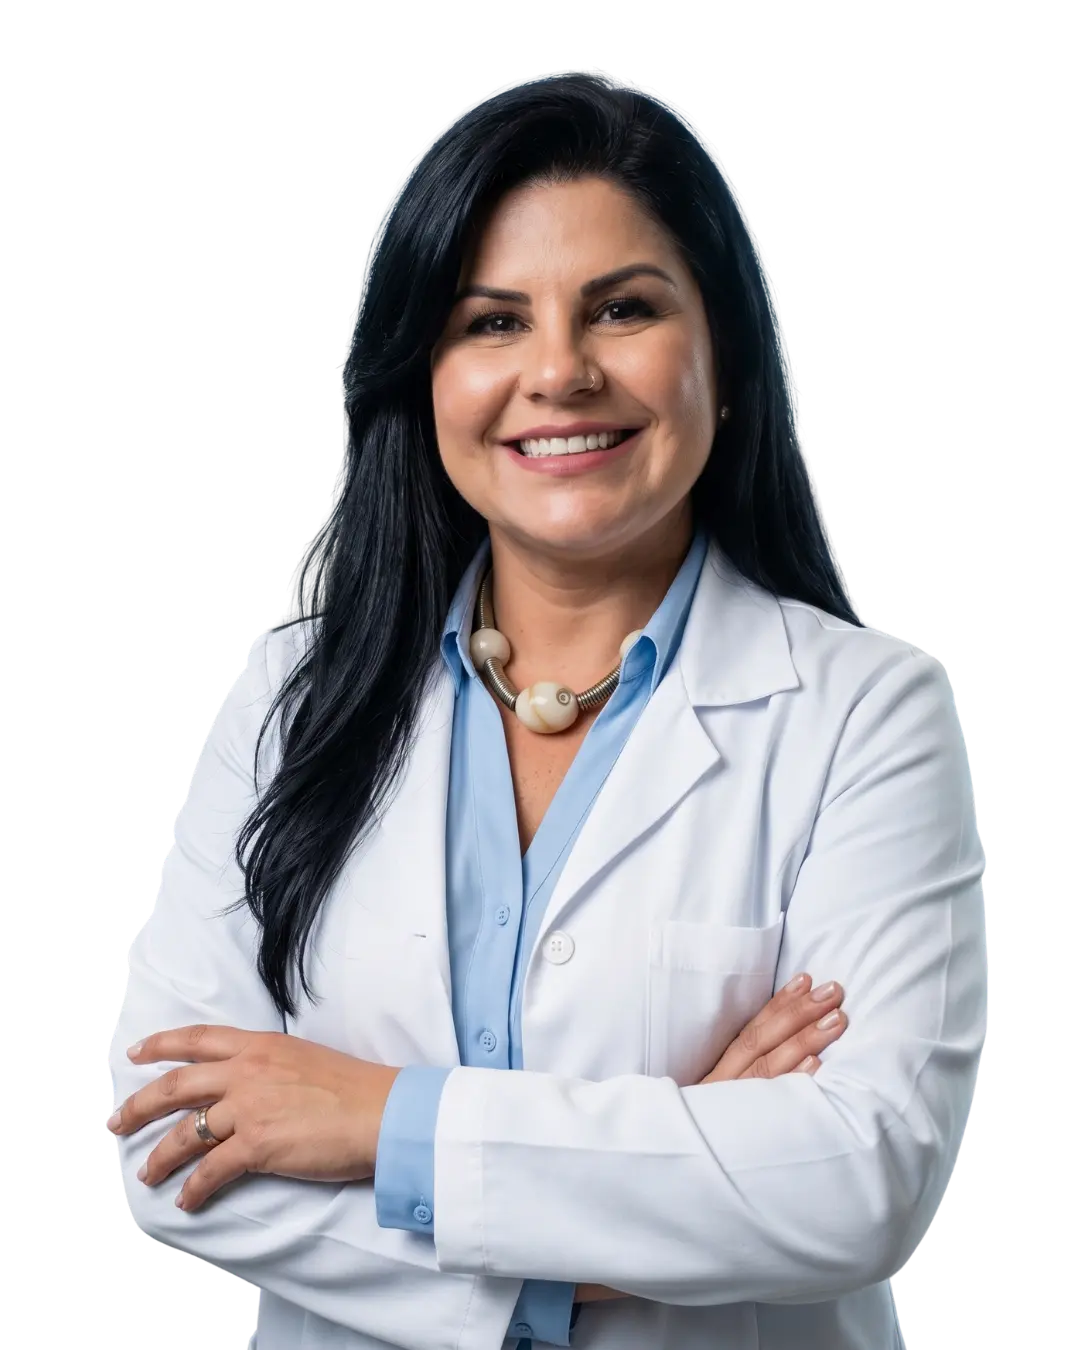
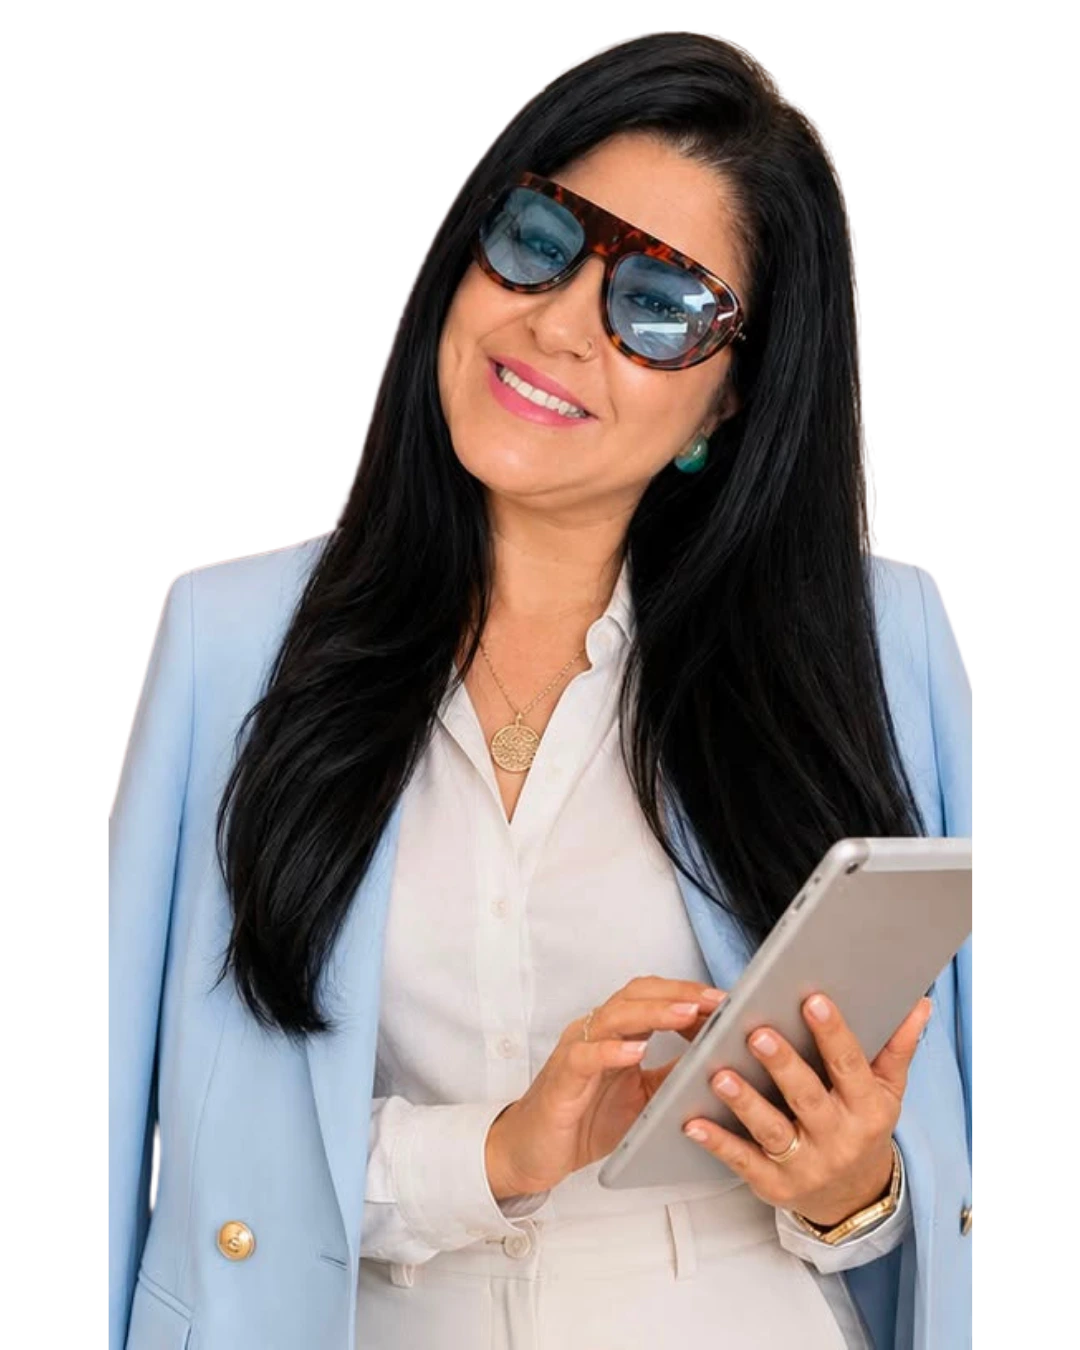
feat: novas fotos de antes/depois, conteudo sobre diastase e botoes de ver mais

diff --git a/index.html b/index.html
@@ -236,12 +236,12 @@
             <button class="service-card__btn" aria-haspopup="dialog">Saiba mais <svg xmlns="http://www.w3.org/2000/svg" viewBox="0 0 24 24" fill="none" stroke="currentColor" stroke-width="2" stroke-linecap="round" stroke-linejoin="round"><path d="M5 12h14M12 5l7 7-7 7"/></svg></button>
           </article>
 
-          <article class="service-card" data-category="rehab" data-full-desc="Atendimento terapêutico especializado com drenagens seguras e tratamentos adaptados individualmente para a gestante e no puerpério imediato/tardio.">
+          <article class="service-card" data-category="rehab" data-full-desc="Atendimento terapêutico especializado com drenagens seguras, fechamento de diástase abdominal e tratamentos adaptados individualmente para a gestante e no puerpério imediato/tardio. A diástase — separação do músculo reto abdominal — é uma condição comum após a gravidez que deixa o abdômen proeminente mesmo sem excesso de gordura. Nosso protocolo de fortalecimento do core e taping é referência em resultados para devolver a firmeza e a funcionalidade da parede abdominal.">
             <div class="service-card__icon">
               <svg xmlns="http://www.w3.org/2000/svg" viewBox="0 0 24 24" fill="none" stroke="currentColor" stroke-width="1.5"><circle cx="12" cy="12" r="10"/><path d="M8 12h8"/></svg>
             </div>
             <h3 class="service-card__title">Pré e Pós-Parto</h3>
-            <p class="service-card__desc">Acompanhamento e drenagens linfáticas seguras e suaves para gestantes e no puerpério.</p>
+            <p class="service-card__desc">Drenagem, fechamento de diástase e reabilitação completa para gestantes e no puerpério.</p>
             <button class="service-card__btn" aria-haspopup="dialog">Saiba mais <svg xmlns="http://www.w3.org/2000/svg" viewBox="0 0 24 24" fill="none" stroke="currentColor" stroke-width="2" stroke-linecap="round" stroke-linejoin="round"><path d="M5 12h14M12 5l7 7-7 7"/></svg></button>
           </article>
 
@@ -382,12 +382,12 @@
             <button class="service-card__btn" aria-haspopup="dialog">Saiba mais <svg xmlns="http://www.w3.org/2000/svg" viewBox="0 0 24 24" fill="none" stroke="currentColor" stroke-width="2" stroke-linecap="round" stroke-linejoin="round"><path d="M5 12h14M12 5l7 7-7 7"/></svg></button>
           </article>
 
-          <article class="service-card" data-category="tech" data-full-desc="Estimulação eletro-neuromuscular via Corrente Russa ou TENS. Atua forçando a hipertrofia e a tonificação de fibras musculares fadigadas ou em reabilitação (Core e Glúteos).">
+          <article class="service-card" data-category="tech" data-full-desc="Estimulação eletro-neuromuscular via Corrente Russa ou TENS. Atua forçando a hipertrofia e a tonificação de fibras musculares fadigadas ou em reabilitação (Core e Glúteos). Essencial no tratamento de diástase abdominal: o fortalecimento progressivo do reto abdominal promove o fechamento da separação muscular, devolvendo a firmeza e a funcionalidade do abdômen.">
             <div class="service-card__icon">
               <svg xmlns="http://www.w3.org/2000/svg" viewBox="0 0 24 24" fill="none" stroke="currentColor" stroke-width="1.5"><path d="M13 2L3 14h9l-1 8 10-12h-9l1-8z"/></svg>
             </div>
             <h3 class="service-card__title">Fortalecimento Muscular</h3>
-            <p class="service-card__desc">Eletroestimulação por Corrente Russa/TENS para ganho de tônus e fortalecimento do core.</p>
+            <p class="service-card__desc">Eletroestimulação para ganho de tônus, fortalecimento do core e fechamento de diástase.</p>
             <button class="service-card__btn" aria-haspopup="dialog">Saiba mais <svg xmlns="http://www.w3.org/2000/svg" viewBox="0 0 24 24" fill="none" stroke="currentColor" stroke-width="2" stroke-linecap="round" stroke-linejoin="round"><path d="M5 12h14M12 5l7 7-7 7"/></svg></button>
           </article>
 
@@ -447,6 +447,18 @@
           </article>
 
         </div>
+
+        <!-- Botão expandir/colapsar serviços (visível apenas no mobile) -->
+        <button class="services__toggle"
+                data-expand-target="#services-grid"
+                data-expand-collapsed-class="services__grid--collapsed"
+                data-expand-label-more="Ver todos os serviços"
+                data-expand-label-less="Ver menos"
+                aria-expanded="false">
+          <span class="expand-btn__text">Ver todos os serviços</span>
+          <svg class="expand-btn__icon" xmlns="http://www.w3.org/2000/svg" viewBox="0 0 24 24" fill="none" stroke="currentColor" stroke-width="2" stroke-linecap="round" stroke-linejoin="round" aria-hidden="true"><polyline points="6 9 12 15 18 9"/></svg>
+        </button>
+
       </div>
     </section>
 
@@ -497,7 +509,49 @@
             <!-- Controle deslizante acessível -->
             <input type="range" class="before-after__slider" min="0" max="100" value="50" aria-label="Mova para comparar o antes e depois da reabilitação pós-parto">
           </div>
+
+          <!-- Item Comparador 3 (Pós-Operatório) -->
+          <div class="before-after" aria-label="Comparativo antes e depois de pós-operatório">
+            <img class="before-after__image before-after__image--after" src="assets/images/depois_tres.webp" alt="Resultado de recuperação pós-operatória com contorno corporal definido" loading="lazy">
+            <img class="before-after__image before-after__image--before" src="assets/images/antes_tres.webp" alt="Corpo antes da reabilitação pós-operatória" loading="lazy">
+            <span class="before-after__label before-after__label--before">Antes</span>
+            <span class="before-after__label before-after__label--after">Depois</span>
+            <div class="before-after__handle"></div>
+            <input type="range" class="before-after__slider" min="0" max="100" value="50" aria-label="Mova para comparar o antes e depois do pós-operatório">
+          </div>
+
+          <!-- Item Comparador 4 (Emagrecimento / Protocolo) -->
+          <div class="before-after" aria-label="Comparativo antes e depois do Protocolo de Emagrecimento">
+            <img class="before-after__image before-after__image--after" src="assets/images/depois_quatro.webp" alt="Resultado do Protocolo Sandra Domingues com redução de medidas e contorno definido" loading="lazy">
+            <img class="before-after__image before-after__image--before" src="assets/images/antes_quatro.webp" alt="Silhueta antes do tratamento de emagrecimento" loading="lazy">
+            <span class="before-after__label before-after__label--before">Antes</span>
+            <span class="before-after__label before-after__label--after">Depois</span>
+            <div class="before-after__handle"></div>
+            <input type="range" class="before-after__slider" min="0" max="100" value="50" aria-label="Mova para comparar o antes e depois do protocolo de emagrecimento">
+          </div>
+
+          <!-- Item Comparador 5 (Diástase / Pré e Pós-Parto) -->
+          <div class="before-after" aria-label="Comparativo antes e depois do fechamento de diástase">
+            <img class="before-after__image before-after__image--after" src="assets/images/depois_cinco.webp" alt="Abdômen firme após fechamento de diástase e fortalecimento do core" loading="lazy">
+            <img class="before-after__image before-after__image--before" src="assets/images/antes_cinco.webp" alt="Abdômen com diástase abdominal visível antes do tratamento" loading="lazy">
+            <span class="before-after__label before-after__label--before">Antes</span>
+            <span class="before-after__label before-after__label--after">Depois</span>
+            <div class="before-after__handle"></div>
+            <input type="range" class="before-after__slider" min="0" max="100" value="50" aria-label="Mova para comparar o antes e depois do fechamento de diástase">
+          </div>
+
         </div>
+
+        <!-- Botão expandir/colapsar galeria (visível apenas no mobile) -->
+        <button class="results__gallery-toggle"
+                data-expand-target=".results__gallery"
+                data-expand-collapsed-class="results__gallery--collapsed"
+                data-expand-label-more="Ver mais resultados"
+                data-expand-label-less="Ver menos"
+                aria-expanded="false">
+          <span class="expand-btn__text">Ver mais resultados</span>
+          <svg class="expand-btn__icon" xmlns="http://www.w3.org/2000/svg" viewBox="0 0 24 24" fill="none" stroke="currentColor" stroke-width="2" stroke-linecap="round" stroke-linejoin="round" aria-hidden="true"><polyline points="6 9 12 15 18 9"/></svg>
+        </button>
 
         <!-- Carrossel de Depoimentos -->
         <div class="testimonials" aria-label="Depoimentos de clientes">
@@ -561,7 +615,32 @@
           <p class="protocolo__text">
             O Protocolo Sandra Domingues é o nosso método autoral de maior sucesso para emagrecimento saudável e redução de medidas. O programa é desenhado a partir da avaliação biomédica das suas curvas e queixa corporal.
           </p>
-          
+
+          <!-- Destaque Numérico de Resultados -->
+          <div class="protocolo__highlights" aria-label="Resultados comprovados do Protocolo Sandra Domingues">
+            <div class="protocolo__highlight-item">
+              <span class="protocolo__highlight-value">–10 kg</span>
+              <span class="protocolo__highlight-label">Perda de peso</span>
+            </div>
+            <div class="protocolo__highlight-item">
+              <span class="protocolo__highlight-value">–25 cm</span>
+              <span class="protocolo__highlight-label">Redução abdominal</span>
+            </div>
+            <div class="protocolo__highlight-item">
+              <span class="protocolo__highlight-value">45 dias</span>
+              <span class="protocolo__highlight-label">Para resultados visíveis</span>
+            </div>
+          </div>
+
+          <!-- Informativo sobre Diástase -->
+          <div class="protocolo__info-box">
+            <svg class="protocolo__info-box-icon" xmlns="http://www.w3.org/2000/svg" viewBox="0 0 24 24" fill="none" stroke="currentColor" stroke-width="2" stroke-linecap="round" stroke-linejoin="round" aria-hidden="true"><circle cx="12" cy="12" r="10"/><path d="M12 16v-4M12 8h.01"/></svg>
+            <div class="protocolo__info-box-content">
+              <h3>Você sabia? Barriga avantajada nem sempre é gordura.</h3>
+              <p>Muitas mulheres apresentam o abdômen proeminente por conta da diástase abdominal — a separação do músculo reto abdominal, comum após gestações. O fechamento da diástase é um dos pilares do nosso trabalho, devolvendo firmeza, funcionalidade e autoestima sem cirurgia.</p>
+            </div>
+          </div>
+
           <div class="protocolo__benefits">
             <div class="protocolo__benefit-item">
               <svg class="protocolo__benefit-icon" xmlns="http://www.w3.org/2000/svg" viewBox="0 0 24 24" fill="none" stroke="currentColor" stroke-width="2" stroke-linecap="round" stroke-linejoin="round"><polyline points="20 6 9 17 4 12"/></svg>

diff --git a/css/sections/protocolo.css b/css/sections/protocolo.css
@@ -47,6 +47,74 @@
   margin-bottom: var(--space-xl);
 }
 
+/* Bloco de destaque numérico (10kg, 25cm, 45 dias) */
+.protocolo__highlights {
+  display: grid;
+  grid-template-columns: repeat(3, 1fr);
+  gap: var(--space-lg);
+  padding: var(--space-xl);
+  border: 1px solid oklch(73.55% 0.134 83.18 / 0.25);
+  border-radius: var(--radius-md);
+  background-color: oklch(73.55% 0.134 83.18 / 0.04);
+  margin-bottom: var(--space-xl);
+  text-align: center;
+}
+
+.protocolo__highlight-item {
+  display: flex;
+  flex-direction: column;
+  align-items: center;
+  gap: var(--space-xs);
+}
+
+.protocolo__highlight-value {
+  font-family: var(--font-display);
+  font-size: clamp(1.8rem, 4vw, 2.5rem);
+  font-weight: var(--weight-semibold);
+  color: var(--color-gold-primary);
+  line-height: 1.1;
+}
+
+.protocolo__highlight-label {
+  font-size: var(--size-small);
+  color: var(--color-text-muted);
+  line-height: 1.3;
+}
+
+/* Bloco educativo sobre diástase */
+.protocolo__info-box {
+  display: flex;
+  align-items: flex-start;
+  gap: var(--space-md);
+  padding: var(--space-lg);
+  border-left: 3px solid var(--color-gold-primary);
+  background-color: oklch(73.55% 0.134 83.18 / 0.04);
+  border-radius: 0 var(--radius-sm) var(--radius-sm) 0;
+  margin-bottom: var(--space-xl);
+}
+
+.protocolo__info-box-icon {
+  color: var(--color-gold-primary);
+  flex-shrink: 0;
+  width: 22px;
+  height: 22px;
+  margin-top: 2px;
+}
+
+.protocolo__info-box-content h3 {
+  font-family: var(--font-body);
+  font-size: 1rem;
+  font-weight: var(--weight-semibold);
+  color: var(--color-text-main);
+  margin-bottom: var(--space-xs);
+}
+
+.protocolo__info-box-content p {
+  font-size: var(--size-small);
+  color: var(--color-text-muted);
+  line-height: var(--lh-body);
+}
+
 .protocolo__benefits {
   display: flex;
   flex-direction: column;

diff --git a/js/modules/expandable.js b/js/modules/expandable.js
@@ -1,0 +1,66 @@
+/* js/modules/expandable.js */
+
+export function initExpandable() {
+  const toggleButtons = document.querySelectorAll('[data-expand-target]');
+
+  toggleButtons.forEach(button => {
+    const targetSelector = button.getAttribute('data-expand-target');
+    const target = document.querySelector(targetSelector);
+
+    if (!target) return;
+
+    const collapsedClass = button.getAttribute('data-expand-collapsed-class');
+    const labelMore = button.getAttribute('data-expand-label-more') || 'Ver mais';
+    const labelLess = button.getAttribute('data-expand-label-less') || 'Ver menos';
+    const textSpan = button.querySelector('.expand-btn__text');
+    const iconSvg = button.querySelector('.expand-btn__icon');
+
+    // Inicia colapsado no mobile
+    target.classList.add(collapsedClass);
+    button.setAttribute('aria-expanded', 'false');
+
+    button.addEventListener('click', () => {
+      const isCollapsed = target.classList.contains(collapsedClass);
+
+      if (isCollapsed) {
+        target.classList.remove(collapsedClass);
+        button.setAttribute('aria-expanded', 'true');
+        if (textSpan) textSpan.textContent = labelLess;
+        if (iconSvg) iconSvg.style.transform = 'rotate(180deg)';
+      } else {
+        target.classList.add(collapsedClass);
+        button.setAttribute('aria-expanded', 'false');
+        if (textSpan) textSpan.textContent = labelMore;
+        if (iconSvg) iconSvg.style.transform = 'rotate(0deg)';
+
+        // Scroll suave de volta ao topo da seção ao colapsar
+        const section = target.closest('section');
+        if (section) {
+          section.scrollIntoView({ behavior: 'smooth', block: 'start' });
+        }
+      }
+    });
+
+    // Oculta o botão em desktop via media query listener
+    const mediaQuery = window.matchMedia('(min-width: 769px)');
+
+    const handleScreenChange = (e) => {
+      if (e.matches) {
+        // Desktop: remove collapse e esconde botão
+        target.classList.remove(collapsedClass);
+        button.style.display = 'none';
+      } else {
+        // Mobile: reaplica collapse e mostra botão
+        target.classList.add(collapsedClass);
+        button.setAttribute('aria-expanded', 'false');
+        if (textSpan) textSpan.textContent = labelMore;
+        if (iconSvg) iconSvg.style.transform = 'rotate(0deg)';
+        button.style.display = '';
+      }
+    };
+
+    // Checa no carregamento
+    handleScreenChange(mediaQuery);
+    mediaQuery.addEventListener('change', handleScreenChange);
+  });
+}

diff --git a/css/sections/results.css b/css/sections/results.css
@@ -278,4 +278,43 @@
     grid-template-columns: 1fr;
     gap: var(--space-xl);
   }
+
+  /* Collapse: esconde a partir do 3º comparador */
+  .results__gallery--collapsed .before-after:nth-child(n+3) {
+    display: none;
+  }
 }
+
+/* Botão "Ver mais resultados / Ver menos" */
+.results__gallery-toggle {
+  display: flex;
+  align-items: center;
+  justify-content: center;
+  gap: var(--space-sm);
+  margin: var(--space-3xl) auto 0 auto;
+  padding: var(--space-md) var(--space-2xl);
+  font-family: var(--font-body);
+  font-size: var(--size-small);
+  font-weight: var(--weight-semibold);
+  text-transform: uppercase;
+  letter-spacing: 0.05em;
+  color: var(--color-gold-primary);
+  background: transparent;
+  border: 1px solid oklch(73.55% 0.134 83.18 / 0.3);
+  border-radius: var(--radius-sm);
+  transition: all var(--transition-smooth);
+  cursor: pointer;
+}
+
+.results__gallery-toggle:hover {
+  background-color: oklch(73.55% 0.134 83.18 / 0.05);
+  border-color: var(--color-gold-primary);
+}
+
+.results__gallery-toggle .expand-btn__icon {
+  width: 16px;
+  height: 16px;
+  transition: transform var(--transition-smooth);
+  flex-shrink: 0;
+}
+

diff --git a/css/sections/services.css b/css/sections/services.css
@@ -310,4 +310,43 @@
   .modal__actions {
     flex-direction: column;
   }
+
+  /* Collapse: esconde a partir do 7º card */
+  .services__grid--collapsed .service-card:nth-child(n+7) {
+    display: none;
+  }
 }
+
+/* Botão "Ver todos os serviços / Ver menos" */
+.services__toggle {
+  display: flex;
+  align-items: center;
+  justify-content: center;
+  gap: var(--space-sm);
+  margin: var(--space-3xl) auto 0 auto;
+  padding: var(--space-md) var(--space-2xl);
+  font-family: var(--font-body);
+  font-size: var(--size-small);
+  font-weight: var(--weight-semibold);
+  text-transform: uppercase;
+  letter-spacing: 0.05em;
+  color: var(--color-gold-primary);
+  background: transparent;
+  border: 1px solid oklch(73.55% 0.134 83.18 / 0.3);
+  border-radius: var(--radius-sm);
+  transition: all var(--transition-smooth);
+  cursor: pointer;
+}
+
+.services__toggle:hover {
+  background-color: oklch(73.55% 0.134 83.18 / 0.05);
+  border-color: var(--color-gold-primary);
+}
+
+.services__toggle .expand-btn__icon {
+  width: 16px;
+  height: 16px;
+  transition: transform var(--transition-smooth);
+  flex-shrink: 0;
+}
+

diff --git a/js/main.js b/js/main.js
@@ -5,6 +5,7 @@ import { initServices } from './modules/services.js';
 import { initResults } from './modules/results.js';
 import { initCustomCursor } from './modules/cursor.js';
 import { initBookingForm } from './modules/booking.js';
+import { initExpandable } from './modules/expandable.js';
 
 document.addEventListener('DOMContentLoaded', () => {
   // Inicialização de módulos
@@ -14,6 +15,7 @@ document.addEventListener('DOMContentLoaded', () => {
   initResults();
   initCustomCursor();
   initBookingForm();
+  initExpandable();
 
   // Efeito de Reveal (fade-in com subida suave) ao scroll
   const reveals = document.querySelectorAll('.reveal');